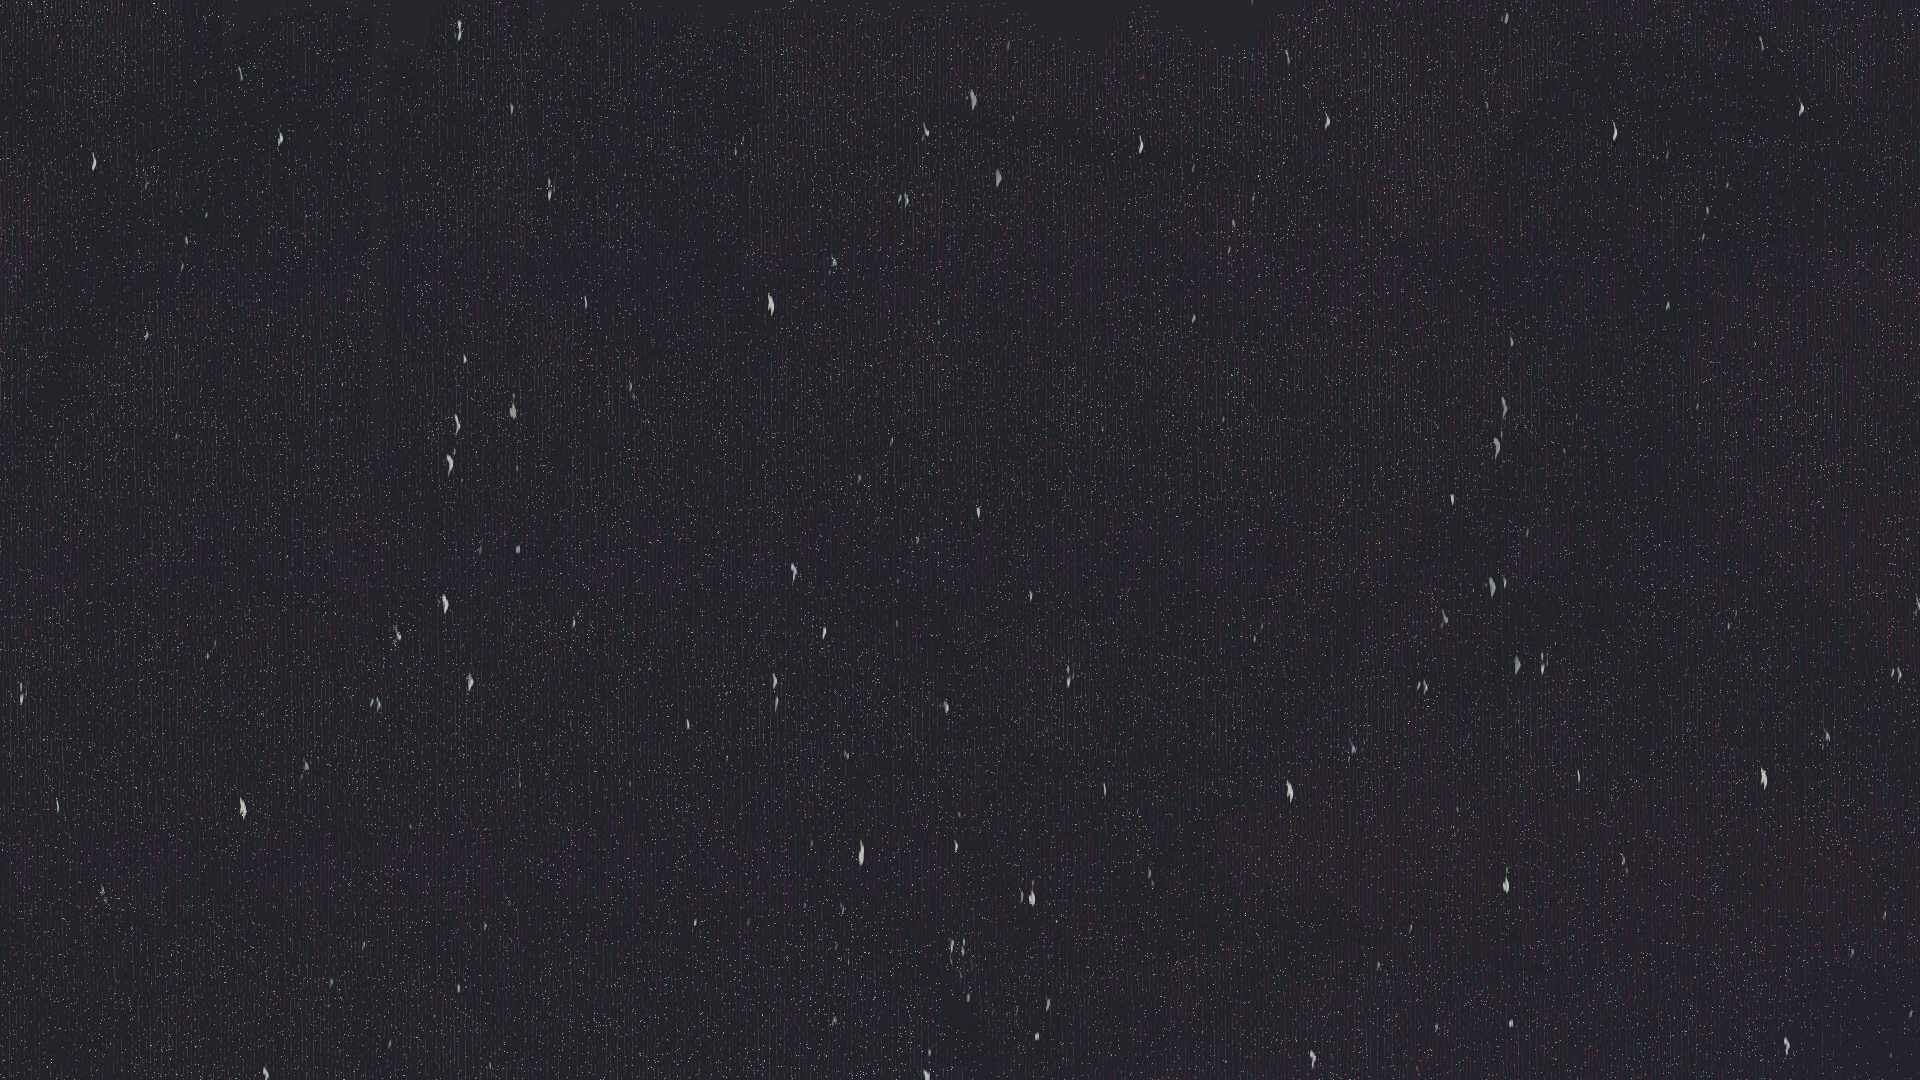
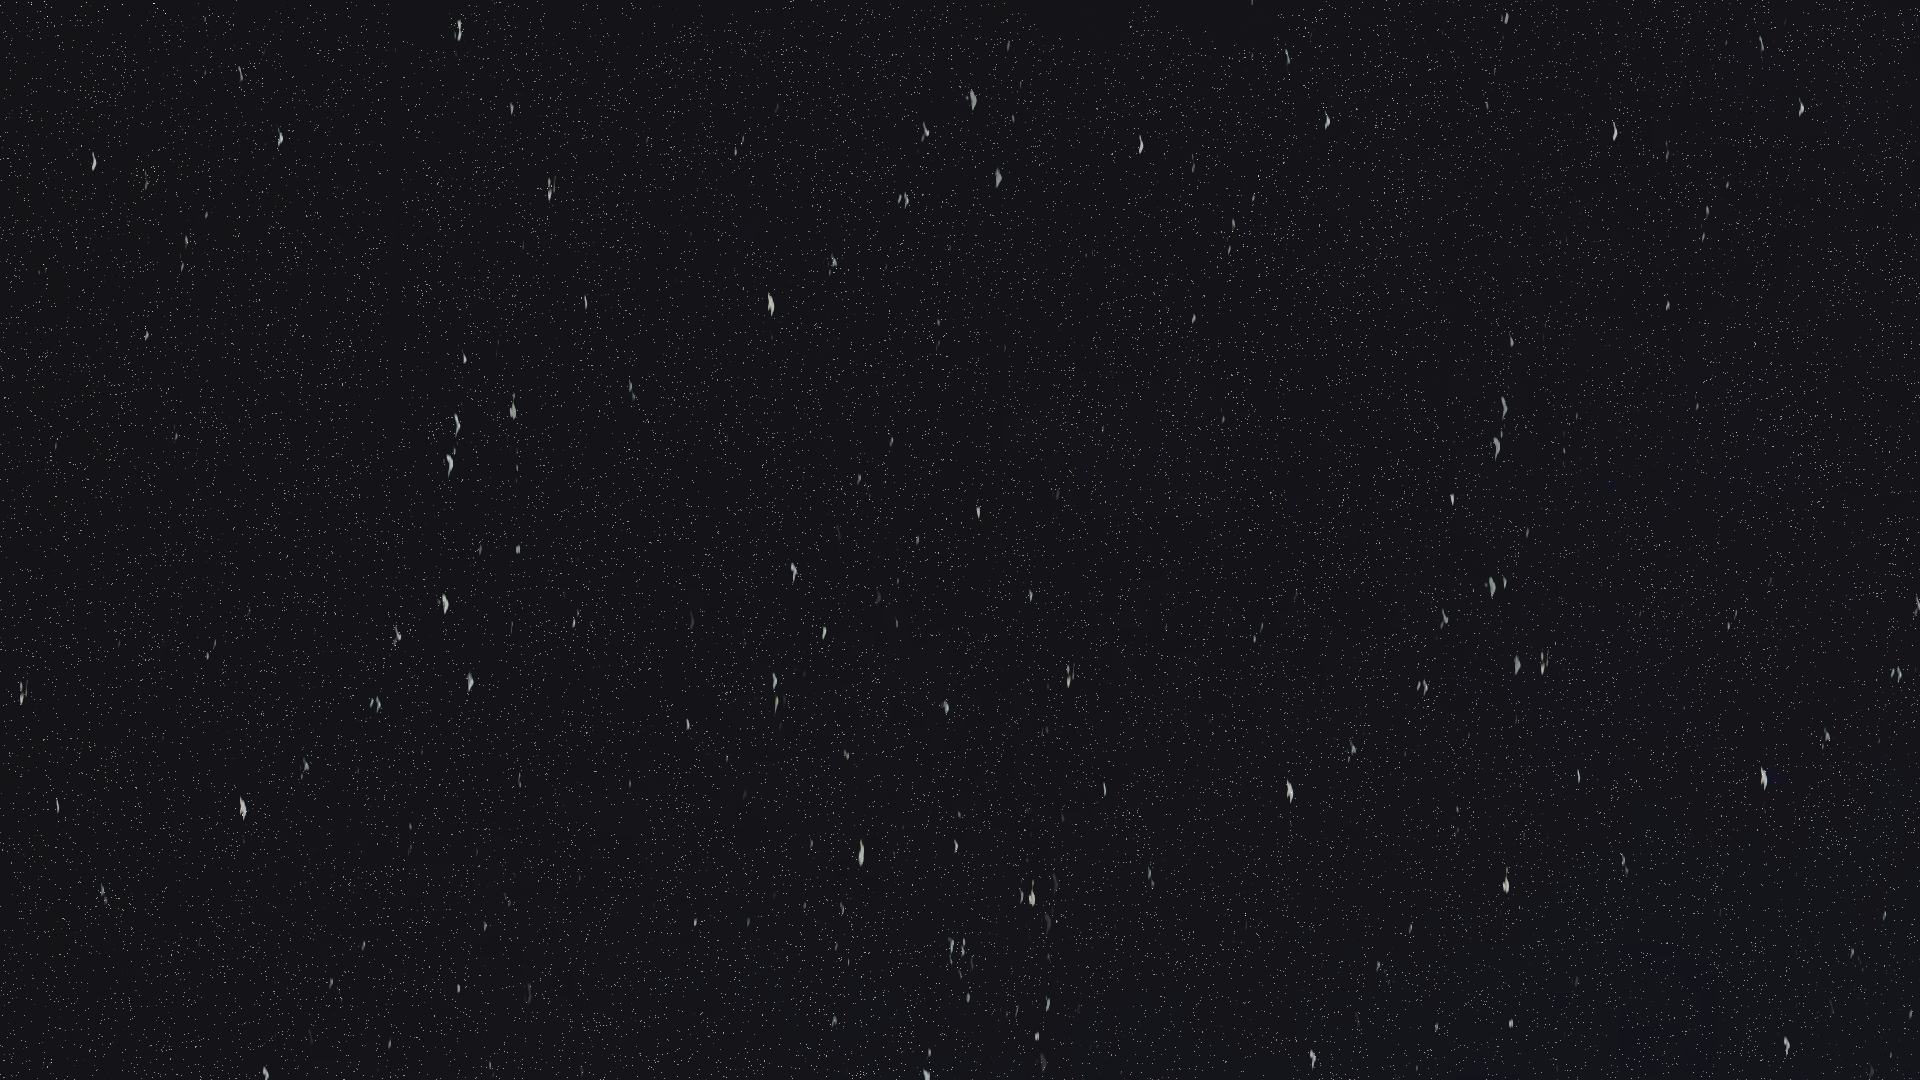
background working now

Changed region(s): [[0.0, 0.0, 1.0, 1.0], [0.125, 0.0, 0.1875, 0.0917]]

diff --git a/index.html b/index.html
@@ -8,7 +8,7 @@
     <link rel="stylesheet" href="style.css">
 
 </head>
-<body>
+<body> 
     <h2>Itarin</h2>
     <h4>Links</h4>
    <h1>
@@ -18,10 +18,10 @@
     <a target="_blank" href="https://music.apple.com/tr/artist/itarin" style="text-decoration:none">AppleMusic</a>
     <a target="_blank" href="https://twitter.com/itarin_" style="text-decoration:none">Twitter</a>
     <a target="_blank" href="https://www.instagram.com/itarin__/" style="text-decoration:none">Instagram</a></p>
-   </h1>
+</h1>
 
    <iframe src="https://open.spotify.com/embed/artist/6Vc7Y1CkrxACHNHLLHsQ9P" width="20%" height="40" frameBorder="2" allowtransparency="true" allow="encrypted-media"></iframe> 
-
+   
 </body>
 <footer>
     <h3>Contact</h3>

diff --git a/style.css b/style.css
@@ -1,3 +1,10 @@
+html { 
+    background: url(images/websitebackground.png) no-repeat center center fixed; 
+    -webkit-background-size: cover;
+    -moz-background-size: cover;
+    -o-background-size: cover;
+    background-size: cover;
+  }
 h2 {text-align: center;
     color:rgb(241, 143, 119);
     text-decoration: underline 1.5px white;
@@ -44,7 +51,7 @@ a:active {text-decoration: none;
     color:white;
     -webkit-text-stroke: 1px white}
 
-body {background-image: url("websitebackground.jpg");background-color: #26272e;}
+body {background-color:transparent;}
    div, iframe {
     width: 400px;
     height: 80px;
